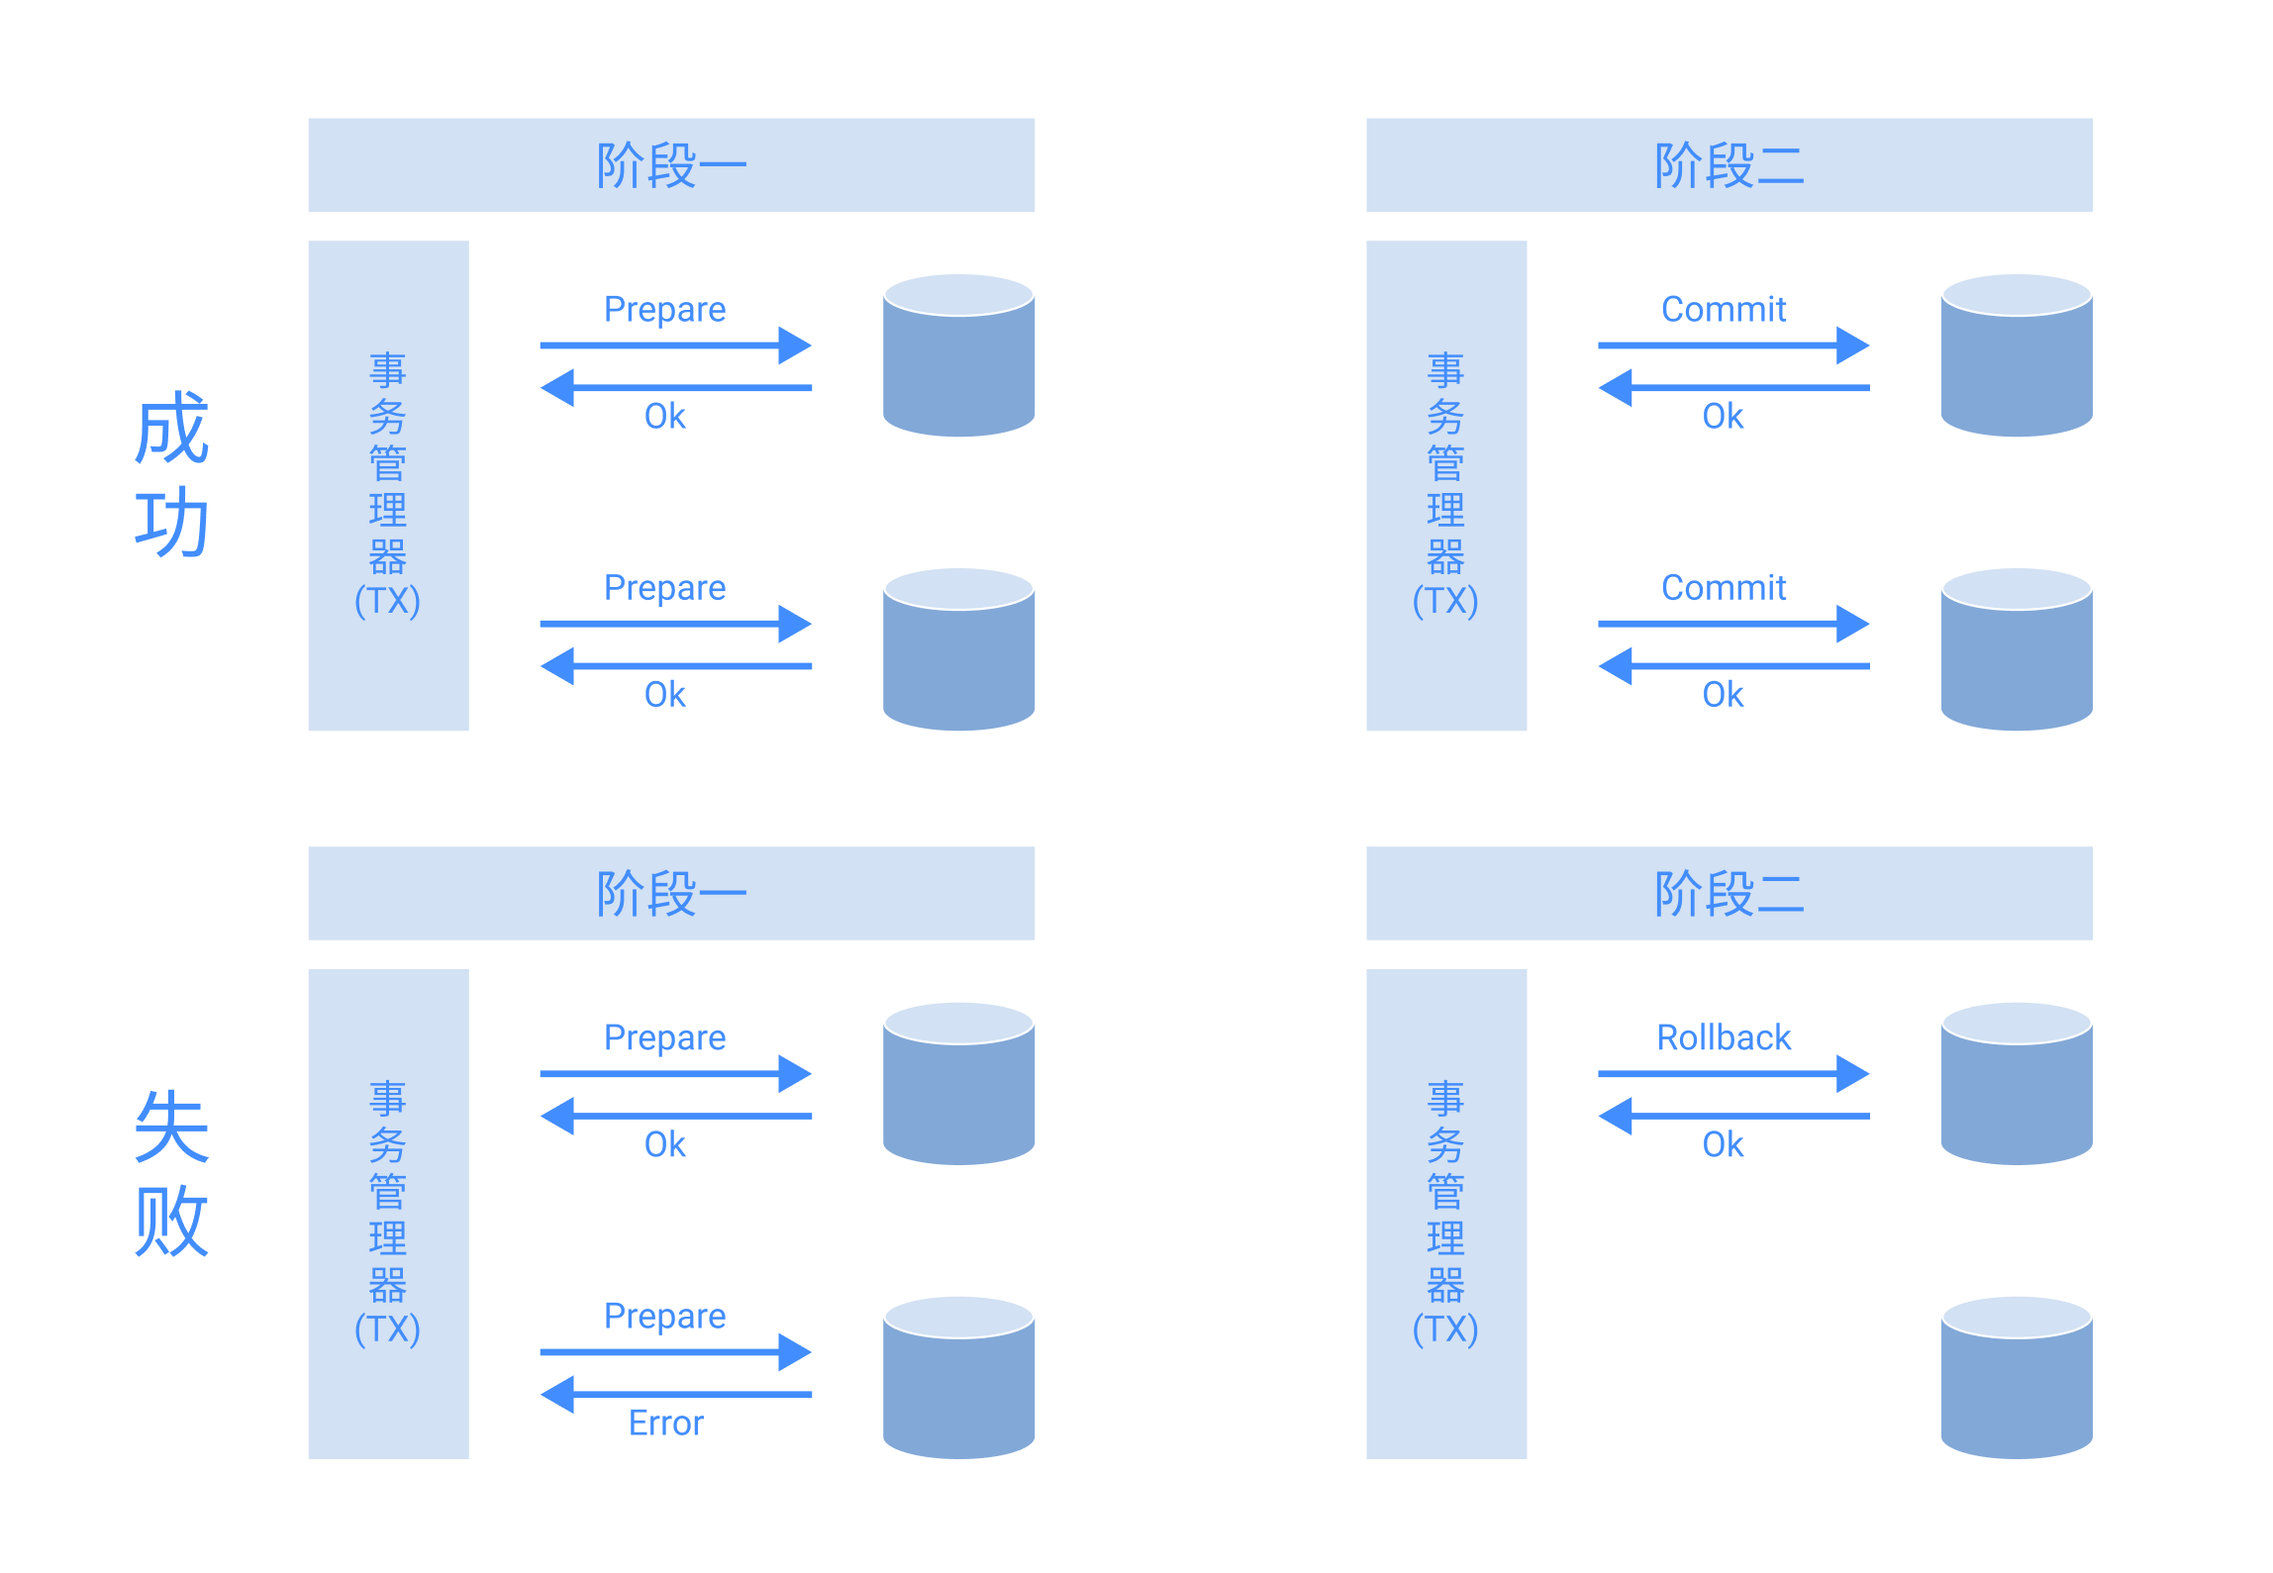
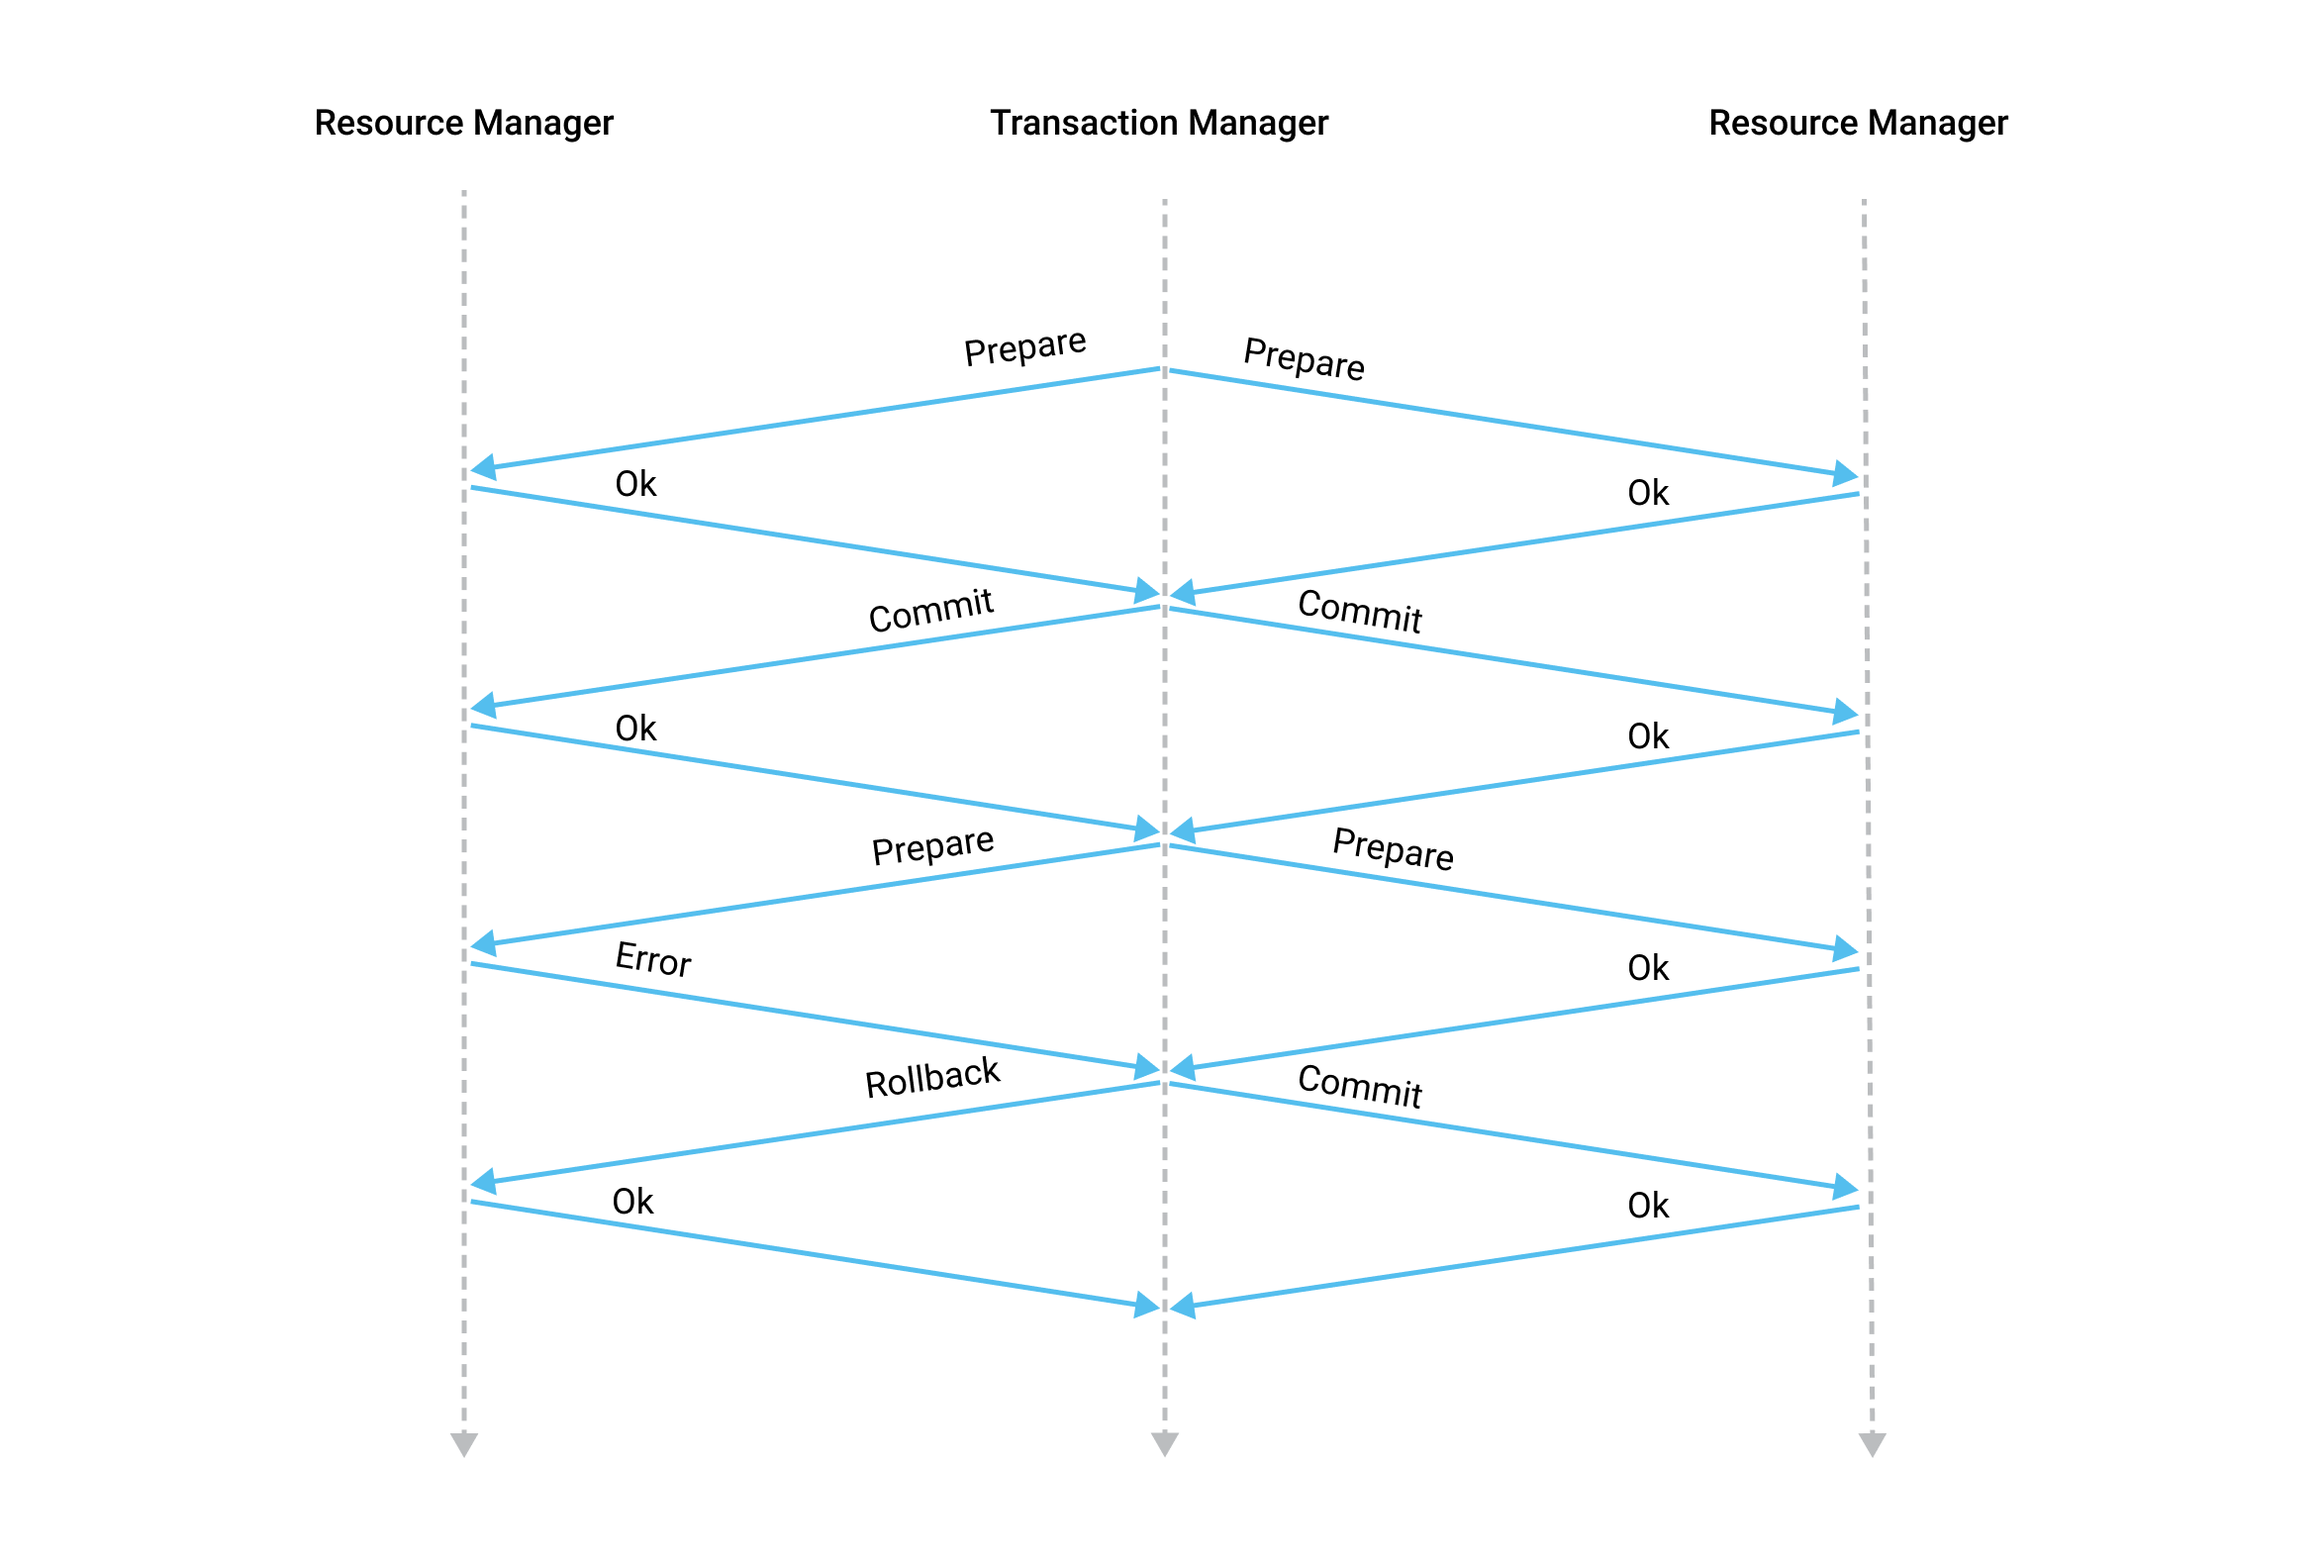
update

diff --git a/Java/分布式事务.md b/Java/分布式事务.md
@@ -1,16 +1,40 @@
 事务的四大特性：原子性（Atomicity）、一致性（Consistency）、隔离性（Isolation）和持久性（Durability），简称 ACID。
 
-在单体架构时代，所有的业务只用一个数据库，利用数据库本身提供的事务机制支持就可以。例如 MySQL 数据库：事务的隔离性是通过数据库锁的机现的。事务的一致性由 [undo log]() 来保证：undo log 是逻辑日志，记录了事务的`insert`、`update`、`delete`操作，回滚的时候做相反的`delete`、`update`、`insert`操作来恢复数据。事务的原子性和一持久性由 [redo log]() 来制实保证：redo log 被称作重做日志，是物理日志，事务提交的时候，必须先将事务的所有日志写入 redo log 持久化，到事务的提交操作才算完成。
+在单体架构时代，所有的业务只用一个数据库，利用数据库本身提供的事务机制支持就可以。例如 MySQL 数据库：事务的隔离性是通过数据库锁的机现的。事务的一致性由「undo log」来保证：「undo log」是逻辑日志，记录了事务的`insert`、`update`、`delete`操作，回滚的时候做相反的`delete`、`update`、`insert`操作来恢复数据。事务的原子性和一持久性由「redo log」来制实保证：「redo log」被称作重做日志，是物理日志，事务提交的时候，必须先将事务的所有日志写入「redo log」持久化，到事务的提交操作才算完成。
 
 ## 分布式事务
 
-[CAP](/Java/CAP.md) 理论，无法都满足，其中 P 是分布式的基础，只能根据实际情况在 C 和 A 中取舍。
+![](/Java/images/Distributed%20transaction%20management.png)
+
+[CAP](/Java/CAP.md) 理论，无法都满足，其中 P 是分布式的基础，只能根据实际情况在 C 和 A 中取舍，演化成 [BASE](/Java/CAP.md#BASE-理论) 理论。
+
+「XA」是一个分布式事务协议，由「Tuxedo」提出。在这个协议里，有三个角色：AP（Application）：应用系统（服务）、TM（Transaction Manager）：事务管理器（全局事务管理）、RM（Resource Manager）：资源管理器（数据库）。XA 规范主要定义了事务管理器（Transaction Manager）和资源管理器（Resource Manager）之间的接口。
+
+![](/Java/images/XA.png)
+
+「XA」协议采用「两阶段提交」方式来管理分布式事务。「XA」接口提供资源管理器与事务管理器之间进行通信的标准接口。
 
 ### 2PC 两阶段提交
 
 两阶段提交的思路可以概括为：参与者将操作成败通知协调者，再由协调者根据所有参与者的反馈情况决定各参与者是否要提交操作还是中止操作。
 
 ![](/Java/images/2PC.png)
+
+两阶段提交优点：尽量保证了数据的强一致，但不是100%一致。
+
+两阶段提交同样有一些缺点：
+- 单点故障 
+  由于协调者的重要性，一旦协调者发生故障，参与者会一直阻塞，尤其时在第二阶段，协调者发生故障，那么所有的参与者都处于锁定事务资源的状态中，而无法继续完成事务操作。 
+- 同步阻塞 
+  它是一个强一致性的同步阻塞协议，也就是所谓刚性事务，事务执⾏过程中需要将所需资源全部锁定，会比较影响性能。 
+- 数据不一致 
+  在第二阶段中，当协调者想参与者发送提交事务请求之后，由于网络抖动，如果第二阶段只有部分参与者收到提交请求，那么就会导致数据不一致。
+
+### 3PC 三阶段提交
+
+三阶段提交「3PC」是二阶段提交「2PC」的一种改进版本 ，为解决两阶段提交协议的单点故障和同步阻塞问题。上边提到两阶段提交，当协调者崩溃时，参与者不能做出最后的选择，就会一直保持阻塞锁定资源。「2PC」中只有协调者有超时机制，「3PC」在协调者和参与者中都引入了超时机制，协调者出现故障后，参与者就不会一直阻塞。而且在第一阶段和第二阶段中又插入了一个预提交阶段，保证了在最后提交阶段之前各参与节点的状态是一致的。
+
+
 
 ### TODO
 

diff --git a/Java/CAP.md b/Java/CAP.md
@@ -47,6 +47,8 @@ The system continues to operate despite arbitrary message loss or failure of par
 
 ## BASE 理论
 
+Basically Available, Soft state, and Eventually consistent.
+
 BASE 是 Basically Available（基本可用） 、Soft-state（软状态） 和 Eventually Consistent（最终一致性） 三个短语的缩写。BASE 理论是对 CAP 中一致性 C 和可用性 A 权衡的结果，其来源于对大规模互联网系统分布式实践的总结，是基于 CAP 定理逐步演化而来的，它大大降低了我们对系统的要求。
 
 BASE理论的核心思想是：
